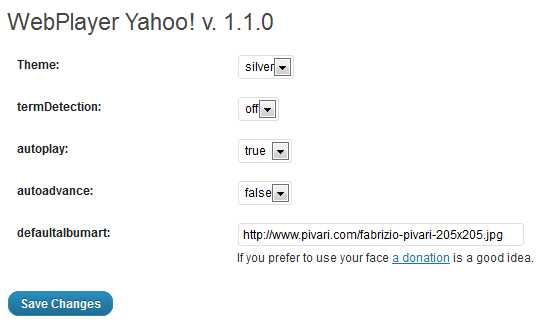
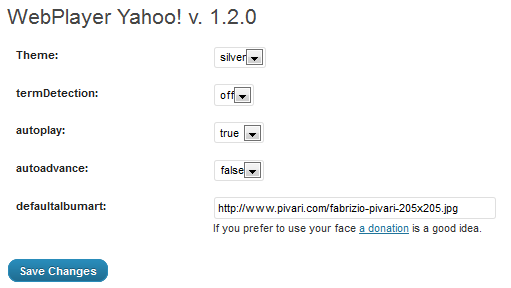
git-svn-id: https://plugins.svn.wordpress.org/webplayer-yahoo/trunk@464163 b8457f37-d9ea-0310-8a92-e5e31aec5664

diff --git a/webplayer-yahoo.php b/webplayer-yahoo.php
@@ -4,7 +4,7 @@
 Plugin Name: WebPlayer Yahoo!
 Plugin URI: http://www.pivari.com/wordpress-plugins/webplayer-yahoo-wp-plugin/
 Description: A simple Plugin to add WebPlayer Yahoo! code on your pages.
-Version: 1.1.0
+Version: 1.2.0
 Author: Fabrizio Pivari
 Author URI: http://www.pivari.com
  */
@@ -25,7 +25,7 @@ Author URI: http://www.pivari.com
     Foundation, Inc., 59 Temple Place, Suite 330, Boston, MA  02111-1307  USA
 */
 
-$version="1.1.0";
+$version="1.2.0";
 
 if (!defined('WP_CONTENT_URL'))
       define('WP_CONTENT_URL', get_option('siteurl').'/wp-content');
@@ -91,12 +91,20 @@ function webplayer_settings( $links ) {
 	return $links;
 }
 
+function webplayer_plugin_settings($links, $file) {
+	if ( $file == basename( dirname( __FILE__ ) ).'/'.basename( __FILE__ ) ) {
+		$links[] = '<a href="options-general.php?page=webplayer">' . __('Settings') . '</a>';
+		$links[] = '<a href="http://www.pivari.com/contatta-pivari/">' . __('Support') . '</a>';
+	}
+	return $links;
+}
 
 register_activation_hook(__FILE__, 'activate_webplayer');
 register_deactivation_hook(__FILE__, 'deactive_webplayer');
 add_action('admin_init', 'admin_init_webplayer');
 add_action('admin_menu', 'admin_menu_webplayer');
 add_action( 'plugin_action_links_'.basename( dirname( __FILE__ ) ).'/'.basename( __FILE__ ), 'webplayer_settings', 10, 4 );
+add_filter( 'plugin_row_meta', 'webplayer_plugin_settings', 10, 2 );
 add_action('wp_footer', 'webplayer');
 
 
